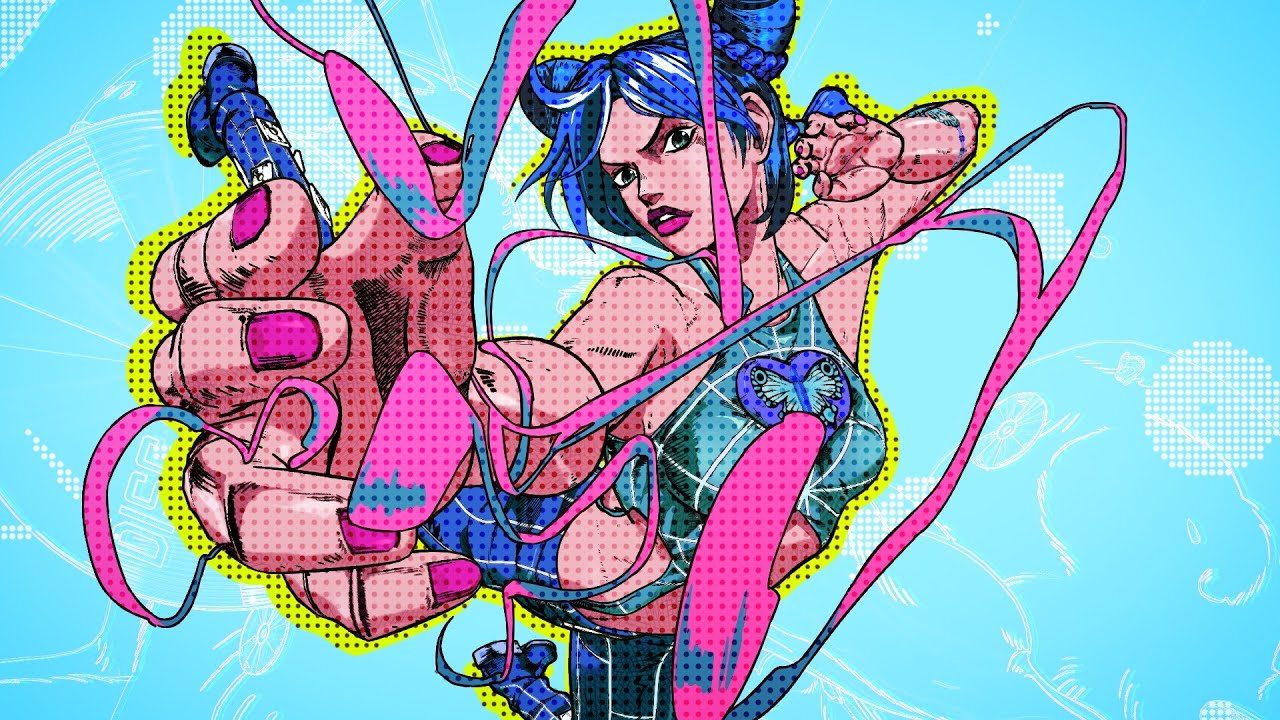
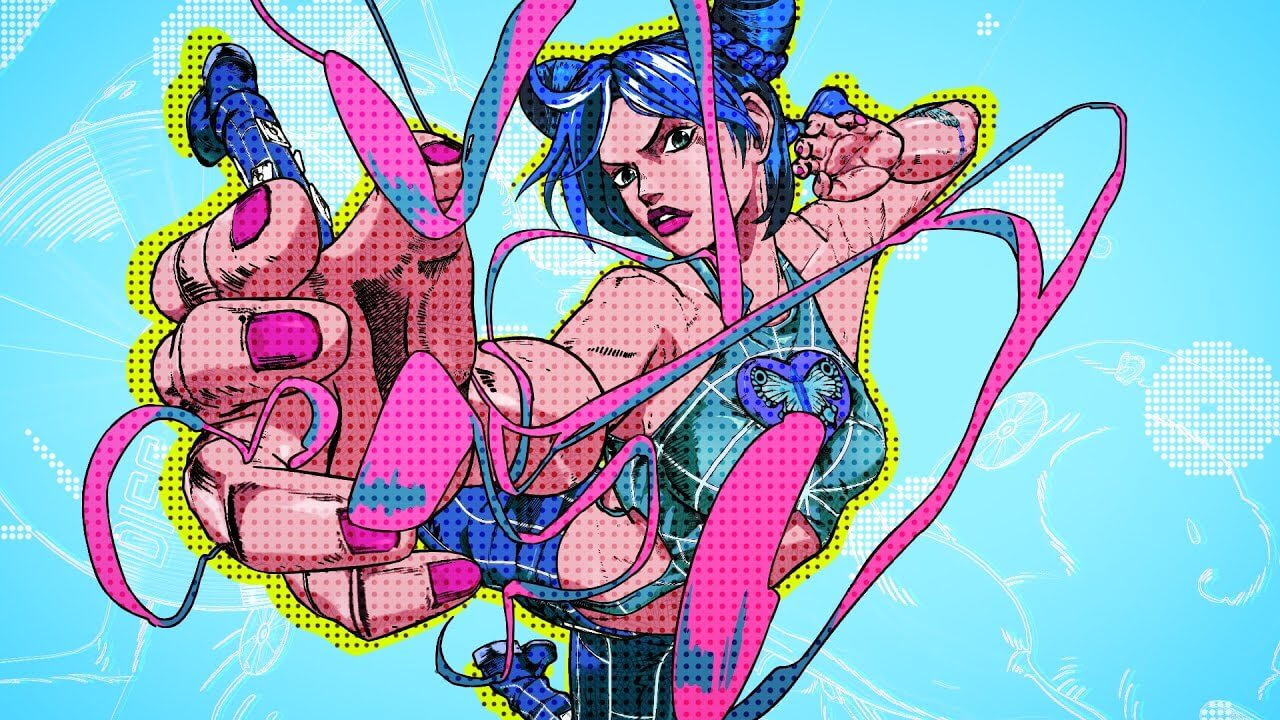
update: 压缩部分图片

Changed region(s): [[0.4062, 0.2444, 0.4375, 0.275], [0.3125, 0.1528, 0.3438, 0.1833]]

diff --git a/README.md b/README.md
@@ -1,11 +1,8 @@
 # TRAIN
 
-## TODO LIST
-
 - 完成企业站 参考 https://jojo-portal.com/zh/anime/so/
+## TODO LIST
 - 完成mock数据的JSON文件
-- 列表页占位图
-- 详情页图片懒加载
 
 - 个人主页加入响应性
 - 弹幕墙加入emoji功能
